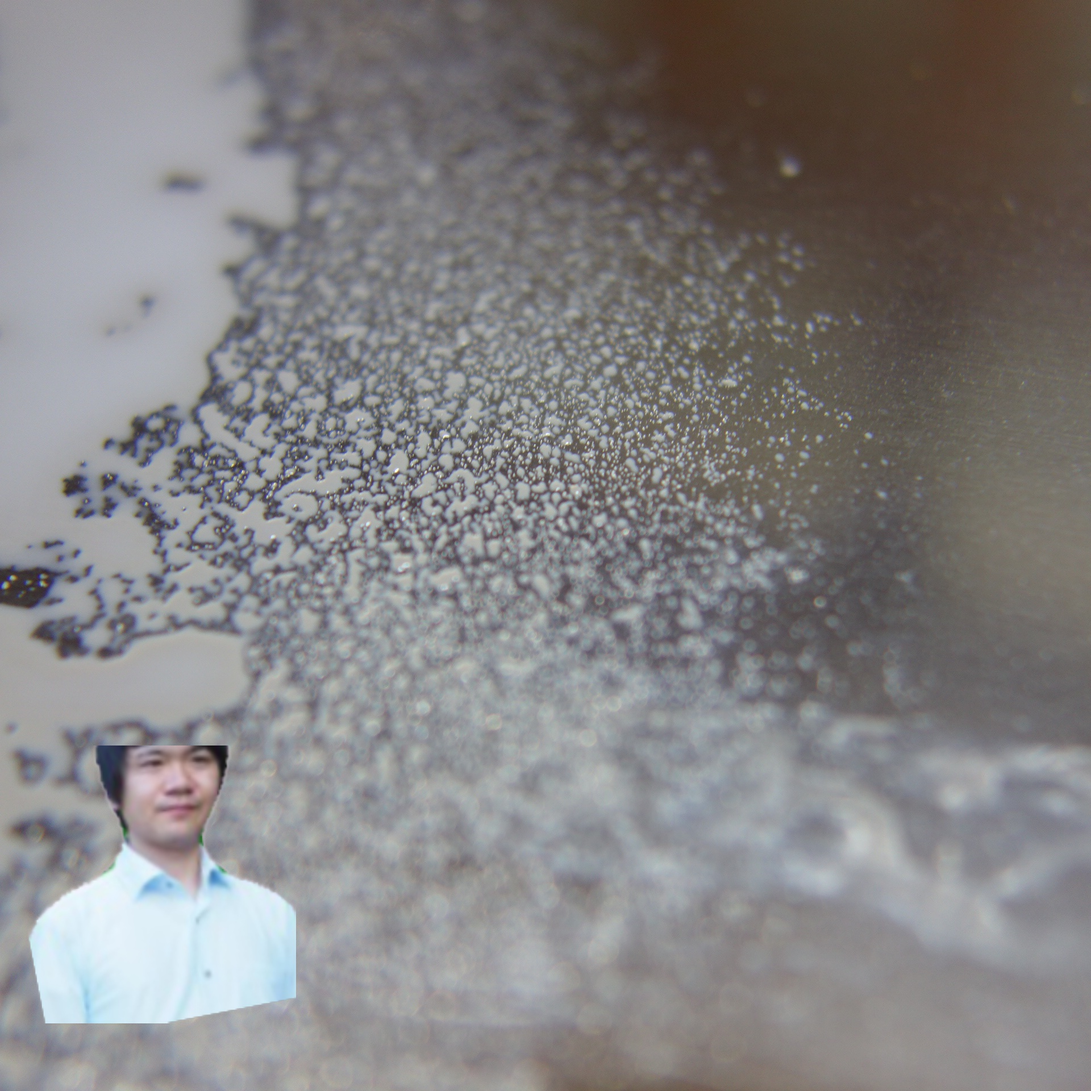
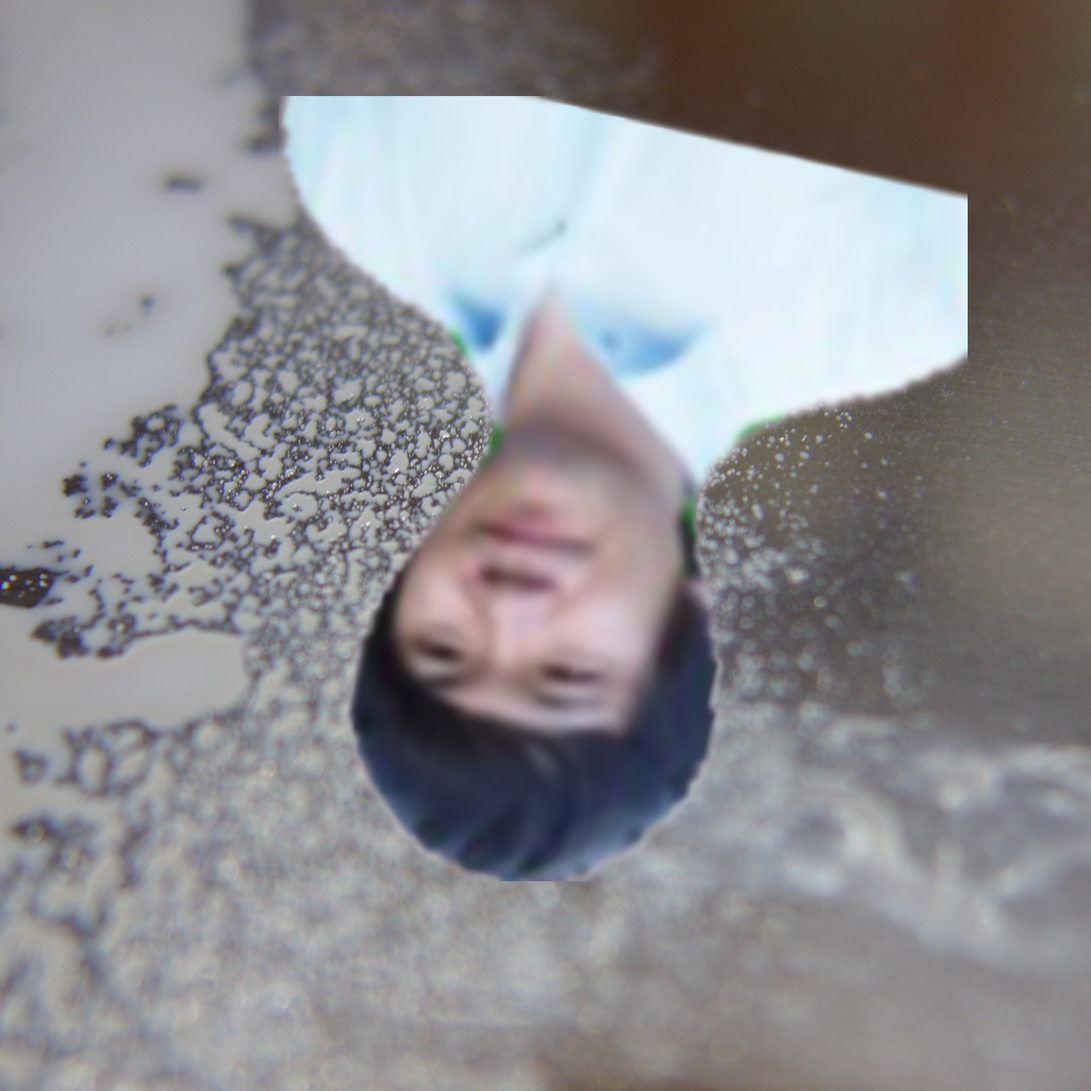
エラーはでなくなったが途中でハングする。

Changed region(s): [[0.25, 0.0625, 0.9062, 0.8125], [0.0312, 0.6562, 0.2812, 0.9375]]

diff --git a/dev/generate_sample.py b/dev/generate_sample.py
@@ -12,30 +12,34 @@ skip_pad = False
 
 # src_imageの背景画像に対して、overlay_imageのalpha画像を貼り付ける。pos_xとpos_yは貼り付け時の左上の座標
 def overlay(src_image, overlay_image, pos_x, pos_y):
-    # オーバレイ画像のサイズを取得
-    ol_height, ol_width = overlay_image.shape[:2]
+    print("def overlay.")
+    if skip_pad == False:
+        # オーバレイ画像のサイズを取得
+        ol_height, ol_width = overlay_image.shape[:2]
 
-    # OpenCVの画像データをPILに変換
-    # BGRAからRGBAへ変換
-    src_image_RGBA = cv2.cvtColor(src_image, cv2.COLOR_BGR2RGB)
-    overlay_image_RGBA = cv2.cvtColor(overlay_image, cv2.COLOR_BGRA2RGBA)
+        # OpenCVの画像データをPILに変換
+        # BGRAからRGBAへ変換
+        src_image_RGBA = cv2.cvtColor(src_image, cv2.COLOR_BGR2RGB)
+        overlay_image_RGBA = cv2.cvtColor(overlay_image, cv2.COLOR_BGRA2RGBA)
 
-    #　PILに変換
-    src_image_PIL=Image.fromarray(src_image_RGBA)
-    overlay_image_PIL=Image.fromarray(overlay_image_RGBA)
+        #　PILに変換
+        src_image_PIL=Image.fromarray(src_image_RGBA)
+        overlay_image_PIL=Image.fromarray(overlay_image_RGBA)
 
-    # 合成のため、RGBAモードに変更
-    src_image_PIL = src_image_PIL.convert('RGBA')
-    overlay_image_PIL = overlay_image_PIL.convert('RGBA')
+        # 合成のため、RGBAモードに変更
+        src_image_PIL = src_image_PIL.convert('RGBA')
+        overlay_image_PIL = overlay_image_PIL.convert('RGBA')
 
-    # 同じ大きさの透過キャンパスを用意
-    tmp = Image.new('RGBA', src_image_PIL.size, (255, 255,255, 0))
-    # 用意したキャンパスに上書き
-    tmp.paste(overlay_image_PIL, (pos_x, pos_y), overlay_image_PIL)
-    # オリジナルとキャンパスを合成して保存
-    result = Image.alpha_composite(src_image_PIL, tmp)
+        # 同じ大きさの透過キャンパスを用意
+        tmp = Image.new('RGBA', src_image_PIL.size, (255, 255,255, 0))
+        # 用意したキャンパスに上書き
+        tmp.paste(overlay_image_PIL, (pos_x, pos_y), overlay_image_PIL)
+        # オリジナルとキャンパスを合成して保存
+        result = Image.alpha_composite(src_image_PIL, tmp)
 
-    return  cv2.cvtColor(np.asarray(result), cv2.COLOR_RGBA2BGRA)
+        return  cv2.cvtColor(np.asarray(result), cv2.COLOR_RGBA2BGRA)
+    else:
+        return None
 
 # 画像周辺のパディングを削除
 def delete_pad(image): 
@@ -83,10 +87,11 @@ def random_overlay_image(src_image, overlay_image,w,h):
     # print("sw,sh:",src_w,src_h,":w,h:",w,h,":ow,oh:",overlay_w,overlay_h)
     rh = src_h-overlay_h+1
     rw = src_w-overlay_w+1
-    print("rh,rw",rh,rw)
+    oh = overlay_h
+    ow = overlay_w
     if rh > 0 and rw > 0 and h > rh and w > rw:
-        y = np.random.randint(src_h-overlay_h+1)
-        x = np.random.randint(src_w-overlay_w+1)
+        y = np.random.randint( rh )
+        x = np.random.randint( rw )
         bbox = ((x, y), (x+overlay_w, y+overlay_h))
     else:
         x = 0
@@ -94,6 +99,7 @@ def random_overlay_image(src_image, overlay_image,w,h):
         bbox = ((0, 0), (1, 1))
         global skip_pad
         skip_pad = True
+    print("x,y,oh,ow,rh,rw:",x,y,oh,ow,rh,rw)
     return overlay(src_image, overlay_image, x, y), bbox
 
 # 4点座標のbboxをyoloフォーマットに変換
@@ -230,8 +236,9 @@ for k in range(loop):
             class_id = np.random.randint(len(labels))
             imgData[j][i] = random_rotate_scale_image( imgData[j][i] )
             result, bbox = random_overlay_image(sampled_background, imgData[j][i], width, height)
-            yolo_bbox = yolo_format_bbox(result, bbox)
-            print(k,j,i,":",yolo_bbox)
+            if skip_pad == False:
+                yolo_bbox = yolo_format_bbox(result, bbox)
+                print(k,j,i,":",yolo_bbox)
 
             if skip_pad == False:
                 # 画像ファイルを保存
